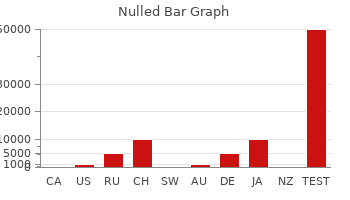
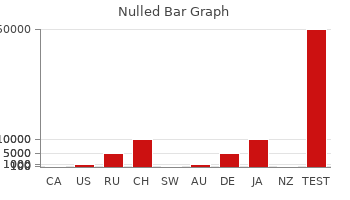
jp

diff --git a/includes/analytics/webgraph.php b/includes/analytics/webgraph.php
@@ -77,7 +77,7 @@ function ortho_bar_graph($data) {
     $theme_class=new UniversalTheme;
     $graph->SetTheme($theme_class);
     
-    $graph->yaxis->SetTickPositions(array(0,1000,5000,10000,20000,30000,50000,100000,500000,1000000,5000000,10000000), array(150,4500,7500,10000,40000));
+    $graph->yaxis->SetTickPositions($visits);
     $graph->SetBox(false);
     
     $graph->ygrid->SetFill(false);
